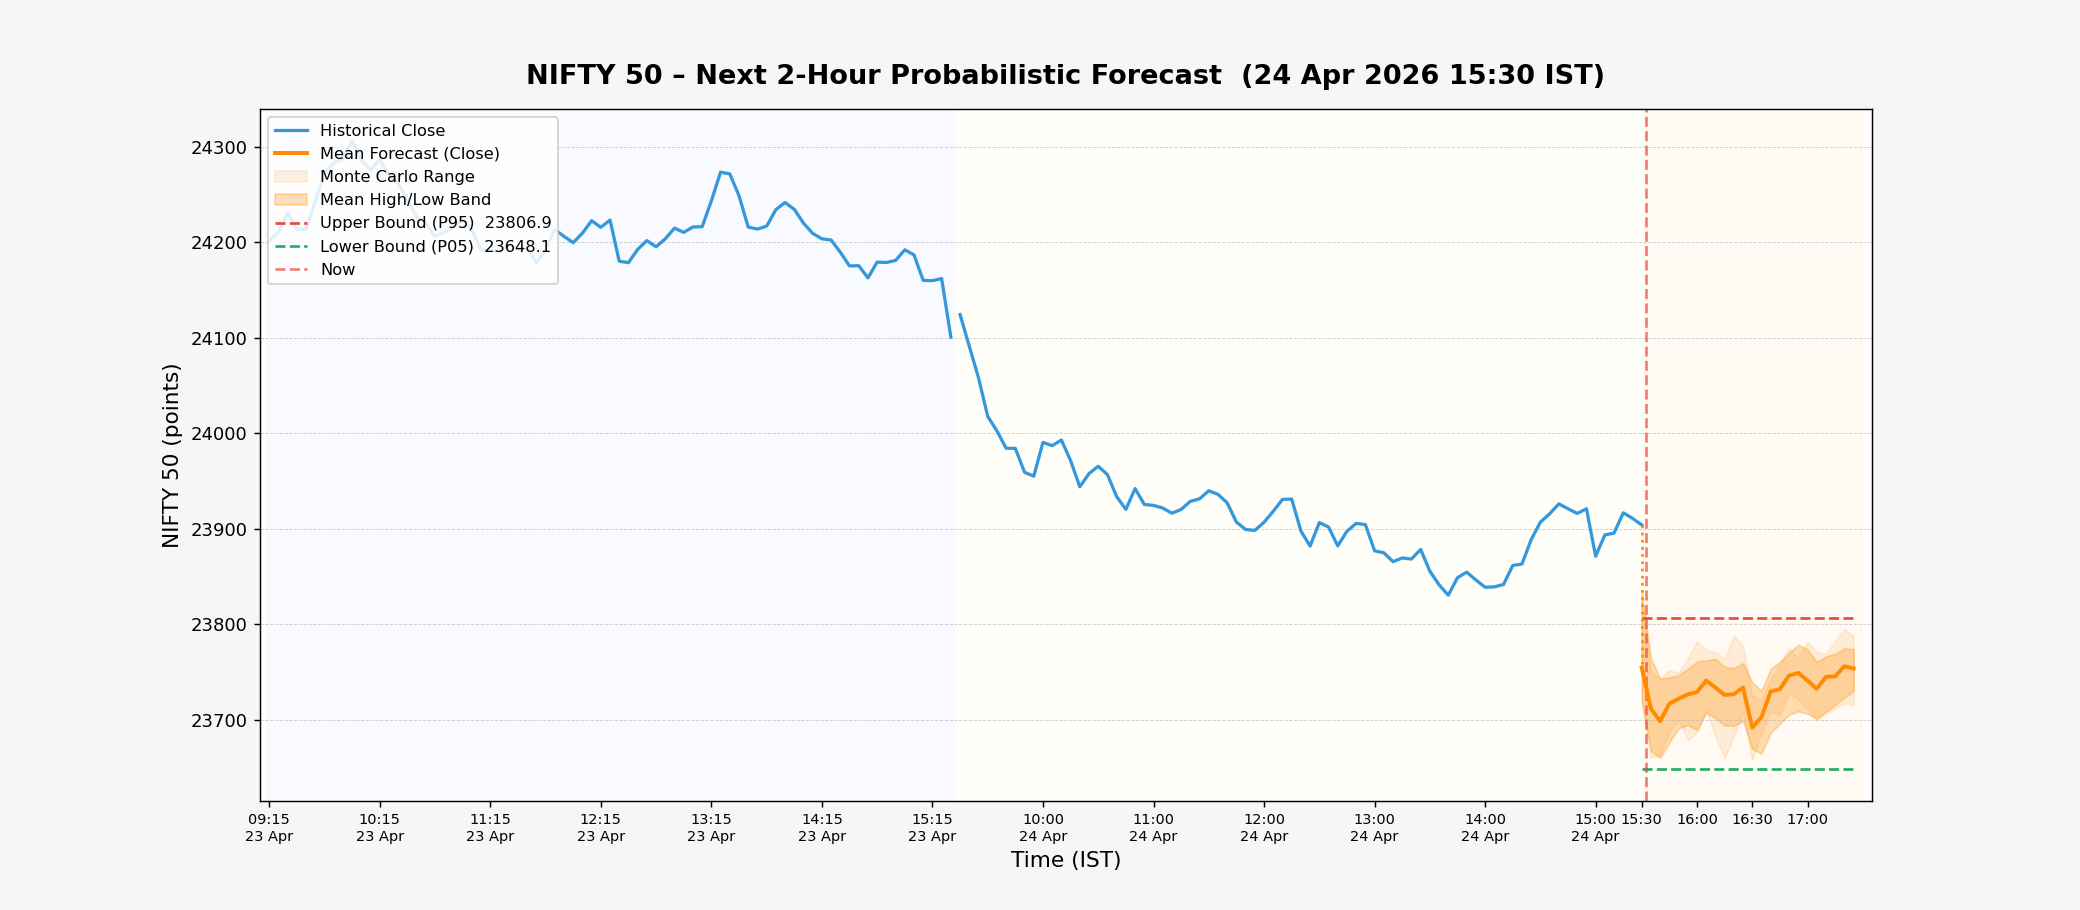
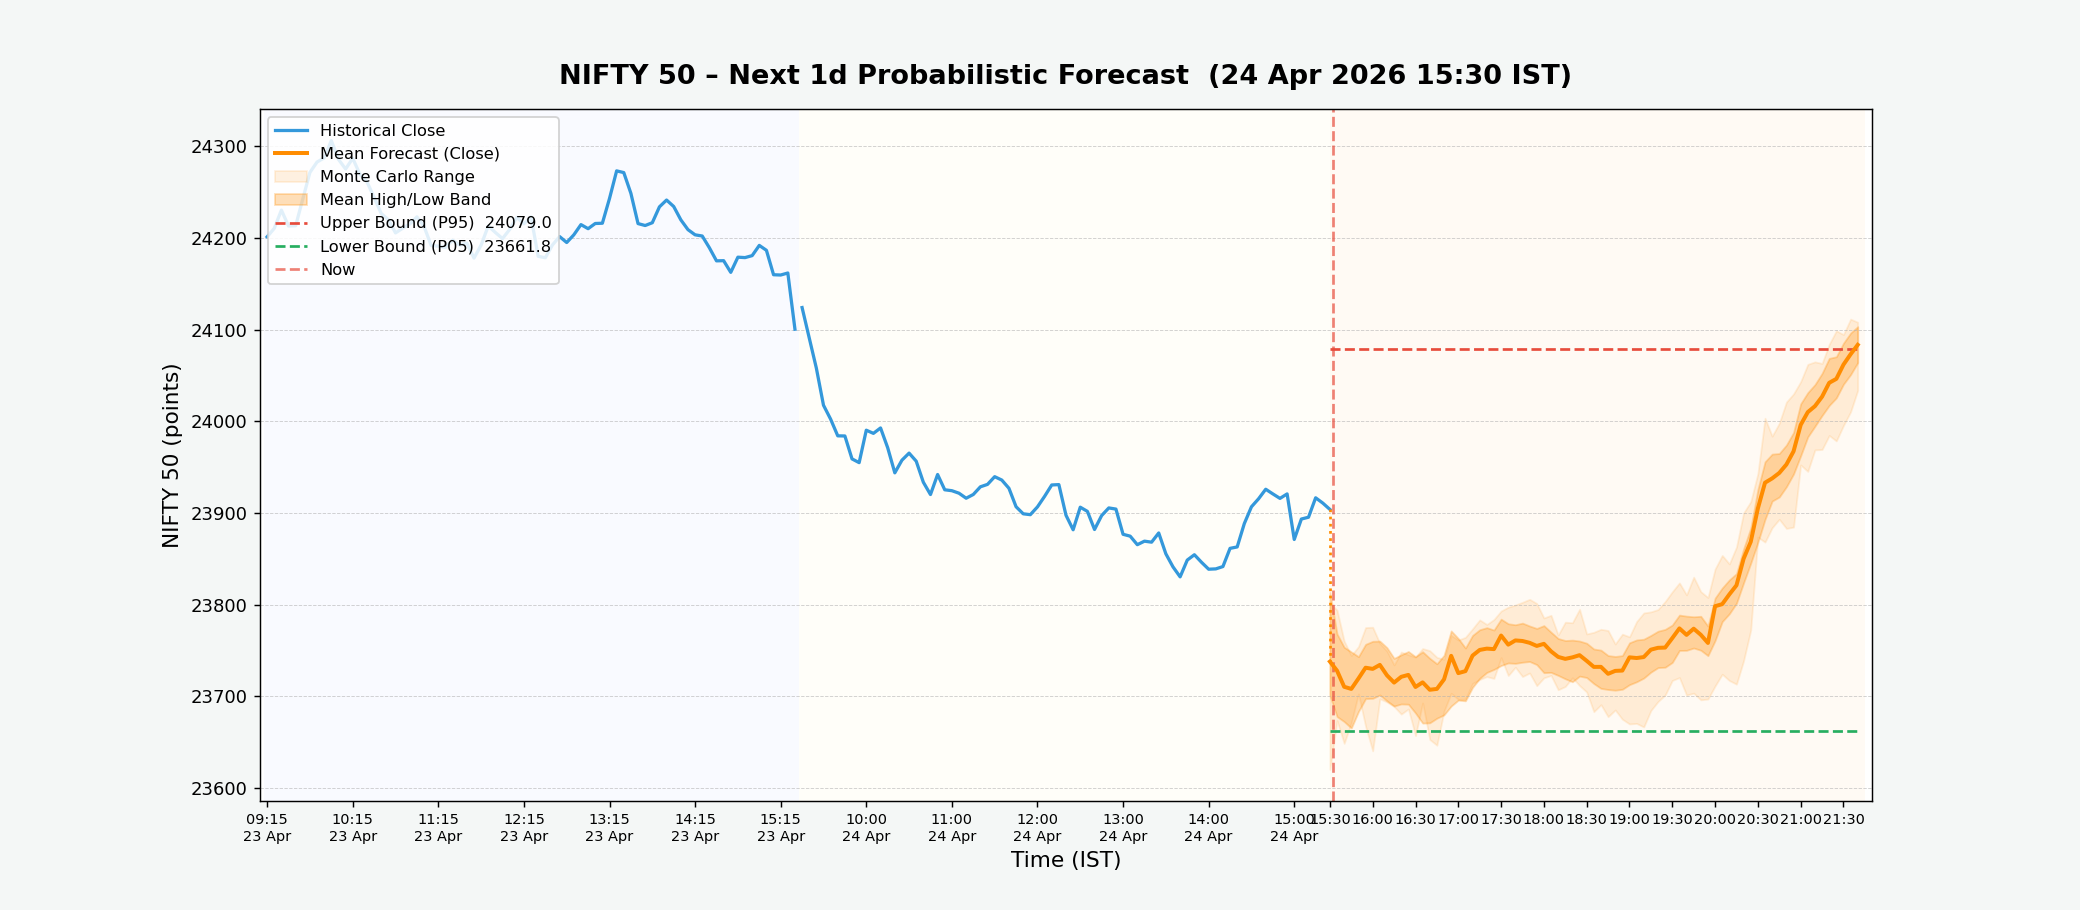
NIFTY forecast update – 2026-04-24 16:49 IST

diff --git a/index.html b/index.html
@@ -24,29 +24,29 @@
 
         <!-- Timestamp bar -->
         <div class="timestamp-bar">
-            <span>Last updated (IST):&nbsp;<strong id="update-time">2026-04-24 16:43:47</strong></span>
+            <span>Last updated (IST):&nbsp;<strong id="update-time">2026-04-24 16:49:34</strong></span>
         </div>
 
         <!-- Metric cards -->
         <div class="metrics-container">
             <div class="metric-card bullish">
                 <div class="metric-label">Bullish Bar Ratio</div>
-                <div class="metric-value" id="upside-prob">54.2%</div>
-                <div class="metric-sub">Next 2h · close &gt; open %</div>
+                <div class="metric-value" id="upside-prob">53.5%</div>
+                <div class="metric-sub">Next 1d · close &gt; open %</div>
             </div>
             <div class="metric-card upper">
                 <div class="metric-label">Upper Bound</div>
-                <div class="metric-value" id="upper-bound">23806.9</div>
+                <div class="metric-value" id="upper-bound">24079.0</div>
                 <div class="metric-sub">Max predicted high</div>
             </div>
             <div class="metric-card lower">
                 <div class="metric-label">Lower Bound</div>
-                <div class="metric-value" id="lower-bound">23648.1</div>
+                <div class="metric-value" id="lower-bound">23661.8</div>
                 <div class="metric-sub">Min predicted low</div>
             </div>
             <div class="metric-card range">
                 <div class="metric-label">Predicted Range</div>
-                <div class="metric-value" id="pred-range">158.9 pts</div>
+                <div class="metric-value" id="pred-range">417.2 pts</div>
                 <div class="metric-sub">Upper − Lower spread</div>
             </div>
         </div>
@@ -54,7 +54,7 @@
         <!-- Chart -->
         <div class="chart-section">
             <div class="chart-header">
-                <span class="chart-title">2-Hour Probabilistic Price Forecast</span>
+                <span class="chart-title">1d Probabilistic Price Forecast</span>
                 <span class="chart-note">Monte Carlo · 10 paths · 5-min candles</span>
             </div>
             <div class="chart-container">
@@ -68,7 +68,7 @@
             <ul>
                 <li><strong>Context:</strong> Last 512 five-minute bars (~42 h of trading) fetched live from OpenAlgo.</li>
                 <li><strong>Model:</strong> AI predictor fine-tuned on NIFTY 50 5-min candlestick data.</li>
-                <li><strong>Horizon:</strong> 24 × 5-min bars = 2 hours of predicted OHLC candles.</li>
+                <li><strong>Horizon:</strong> 75 × 5-min bars = 1d of predicted OHLC candles.</li>
                 <li><strong>Uncertainty:</strong> 10 independent Monte Carlo runs produce the shaded forecast bands.</li>
             </ul>
         </details>
